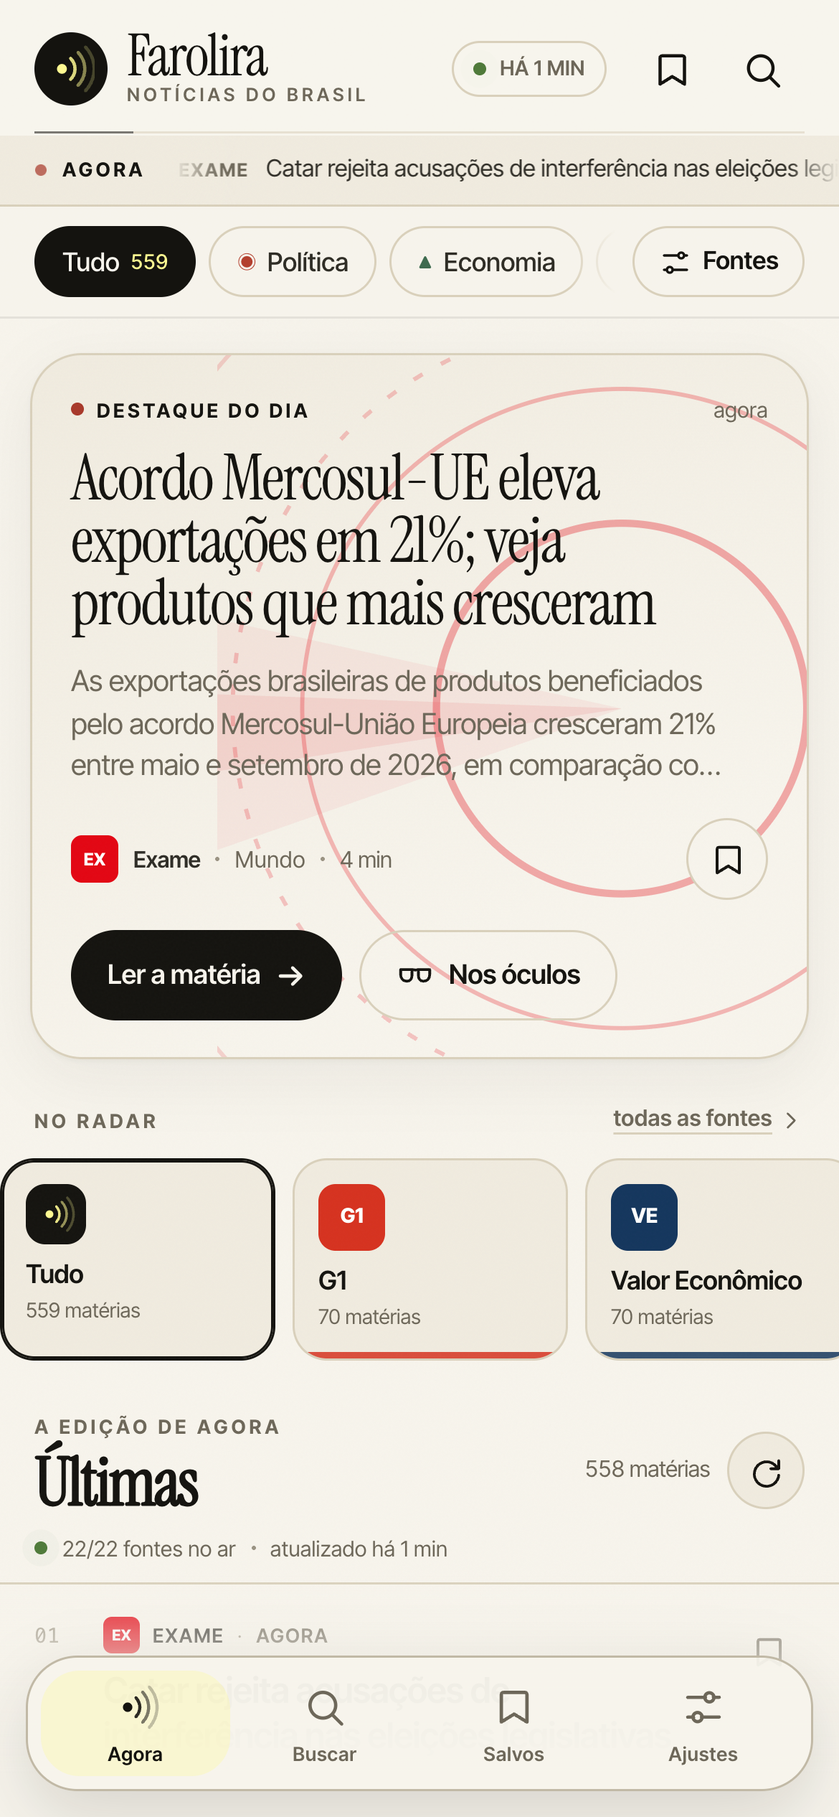
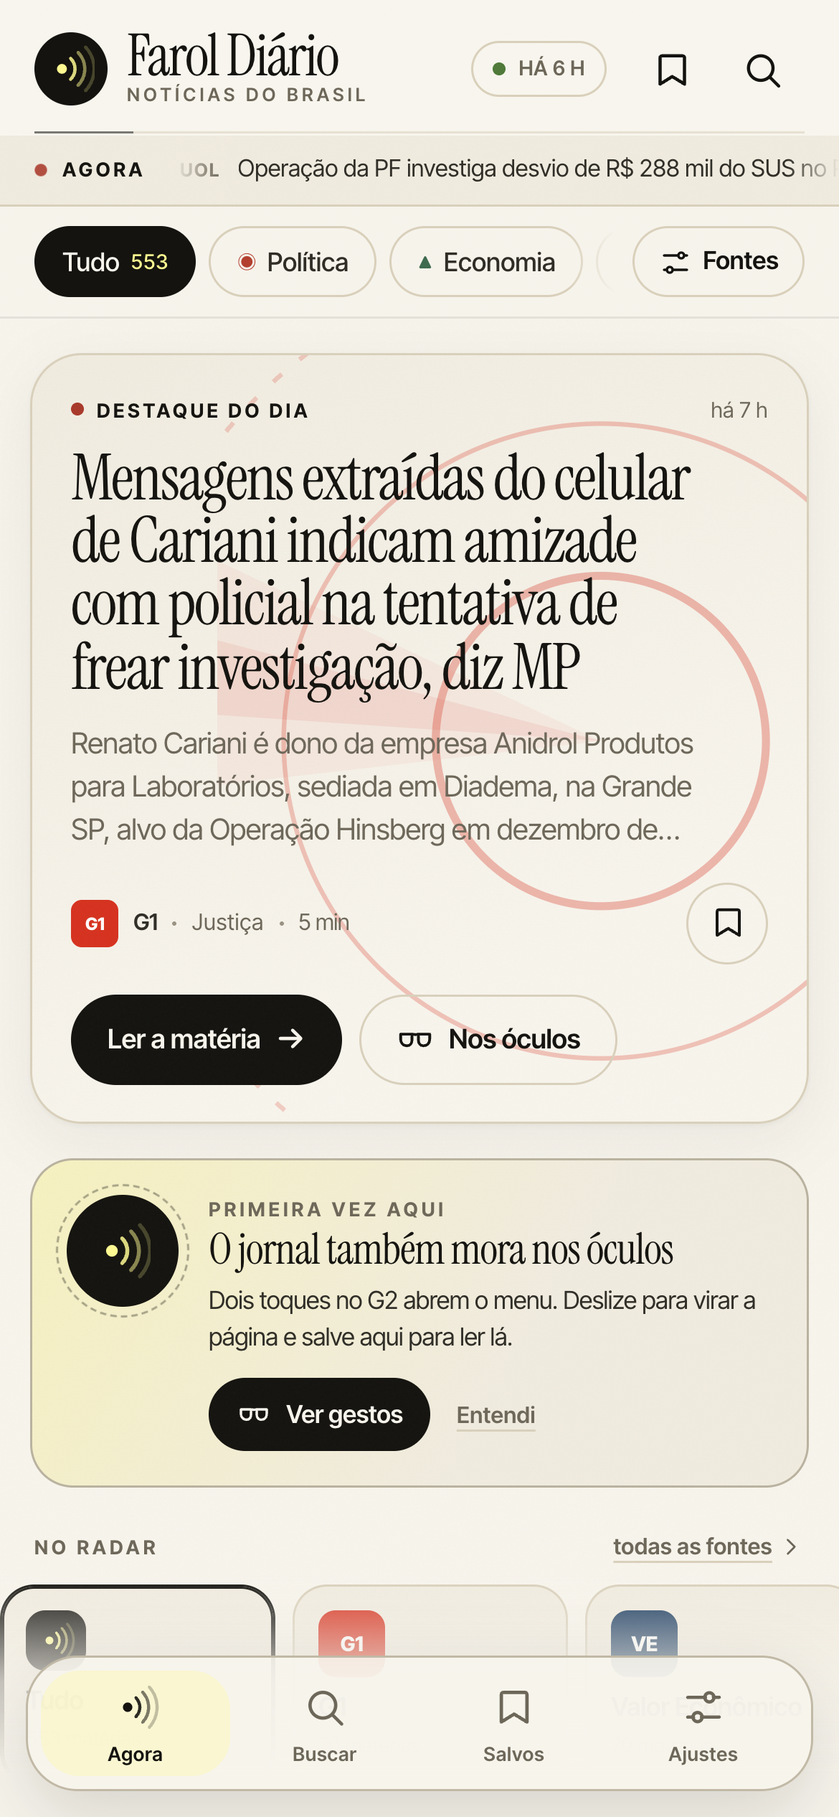
feat: Farol Diário 1.0.0 — novo nome, package id e projeto Even Hub

diff --git a/src/lib/i18n.ts b/src/lib/i18n.ts
@@ -51,7 +51,7 @@ export function t(template: string, vars?: Vars): string {
 const EN: Record<string, string> = {
   /* navegação e marca */
   'notícias do Brasil': 'Brazil news',
-  'notícias do Brasil, num olhar': 'Brazil news, at a glance',
+  'notícias do Brasil, num olhar': "Brazil's daily news, at a glance",
   'Pular para o conteúdo': 'Skip to content',
   'Agora': 'Now',
   'Buscar': 'Search',
@@ -147,10 +147,10 @@ const EN: Record<string, string> = {
   'Ainda só temos o resumo — abra no celular': 'Still only the summary — open on the phone',
   'Buscar texto completo': 'Get full text',
   'Buscando texto completo…': 'Getting full text…',
-  'Esta matéria chegou ao Farolira apenas com o resumo. Tente buscar o texto completo (versão pública ou arquivada) ou abra o original.':
-    'This story reached Farolira as a summary only. Try the full text (public or archived version) or open the original.',
-  'Esta matéria ainda não tem texto completo no Farolira. Abra a versão original no celular.':
-    'This story does not have the full text on Farolira yet. Open the original on your phone.',
+  'Esta matéria chegou ao Farol Diário apenas com o resumo. Tente buscar o texto completo (versão pública ou arquivada) ou abra o original.':
+    'This story reached Farol Diário as a summary only. Try the full text (public or archived version) or open the original.',
+  'Esta matéria ainda não tem texto completo no Farol Diário. Abra a versão original no celular.':
+    'This story does not have the full text on Farol Diário yet. Open the original on your phone.',
   'O farol ainda não acendeu': 'The beacon is not lit yet',
   'Não recebemos a edição de hoje. Verifique sua conexão e puxe a atualização — o serviço publica notícias a cada 15 minutos.':
     'We have not received today’s edition. Check your connection and pull to refresh — the service publishes news every 15 minutes.',
@@ -308,14 +308,14 @@ const EN: Record<string, string> = {
   'Abrir endpoint de dados': 'Open data endpoint',
   'Limpar cache': 'Clear cache',
   'Limpar o cache de notícias? Seus salvos continuam guardados.': 'Clear the news cache? Your saved stories are kept.',
-  'Cache limpo. O Farolira vai buscar novidades.': 'Cache cleared. Farolira will look for updates.',
+  'Cache limpo. O Farol Diário vai buscar novidades.': 'Cache cleared. Farol Diário will look for updates.',
   'Mantém os salvos no celular': 'Keeps saved stories on the phone',
   'Salvos offline': 'Saved offline',
   'no Even Hub': 'in Even Hub',
   'O app não tem login nem rastreamento. As notícias vêm de feeds públicos dos veículos; favoritos e ajustes ficam no armazenamento do seu celular via Even Hub.':
     'The app has no login and no tracking. News comes from public outlet feeds; favorites and settings stay in your phone storage via Even Hub.',
-  'versão 1.1.0 · feito para Even Realities G2': 'version 1.1.0 · made for Even Realities G2',
-  'versão 1.0.1 · feito para Even Realities G2': 'version 1.1.0 · made for Even Realities G2',
+  'versão 1.0.0 · feito para Even Realities G2': 'version 1.0.0 · made for Even Realities G2',
+  'versão 1.0.1 · feito para Even Realities G2': 'version 1.0.0 · made for Even Realities G2',
 
   /* fontes e metadados */
   'monte seu farol': 'build your beacon',
@@ -348,7 +348,7 @@ const EN: Record<string, string> = {
   '▲▼ rolar  ·  ● escolher  ·  2× lista': '▲▼ scroll  ·  ● choose  ·  2× list',
   '▲▼ rolar  ·  ● filtrar  ·  2× voltar': '▲▼ scroll  ·  ● filter  ·  2× back',
   '▲▼ rolar  ·  ● abrir  ·  2× voltar': '▲▼ scroll  ·  ● open  ·  2× back',
-  '◈  Abrindo o Farolira…': '◈  Opening Farolira…',
+  '◈  Abrindo o Farol Diário…': '◈  Opening Farol Diário…',
   '◈  Sem notícias agora — 2× para atualizar': '◈  No stories right now — 2× to refresh',
   '◈  Sem notícias agora': '◈  No stories right now',
   '◈  Últimas notícias': '◈  Latest stories',
@@ -360,7 +360,7 @@ const EN: Record<string, string> = {
   '◀  Voltar à leitura': '◀  Back to reading',
   '▶  Atualizar notícias': '▶  Refresh news',
   '▷  Filtrar por fonte': '▷  Filter by source',
-  '×  Sair do Farolira': '×  Exit Farolira',
+  '×  Sair do Farol Diário': '×  Exit Farol Diário',
   '●  Todas as fontes': '●  All sources',
   'NADA SALVO AINDA': 'NOTHING SAVED YET',
   'Abra uma matéria e toque': 'Open a story and tap',
@@ -378,9 +378,9 @@ const EN: Record<string, string> = {
   'Modo navegador — sem óculos conectados': 'Browser mode — no glasses connected',
   'falha ao iniciar': 'failed to start',
   '1/2  ● ações': '1/2  ● actions',
-  '(Resumo do Farolira. A íntegra está disponível no site da fonte.)':
-    '(Farolira summary. The full story is available on the source site.)',
-  '◈ FAROLIRA — COMO USAR': '◈ FAROLIRA — HOW TO USE',
+  '(Resumo do Farol Diário. A íntegra está disponível no site da fonte.)':
+    '(Farol Diário summary. The full story is available on the source site.)',
+  '◈ FAROL DIÁRIO — COMO USAR': '◈ FAROL DIÁRIO — HOW TO USE',
   '▲ ▼  navegar e virar página': '▲ ▼  navigate and turn page',
   '●    abrir a matéria': '●    open the story',
   '●●   2 toques: menu de ações': '●●   2 taps: actions menu',

diff --git a/src/lib/glasses.ts b/src/lib/glasses.ts
@@ -140,7 +140,7 @@ export class GlassesUI {
                 itemCount: 1,
                 itemWidth: 560,
                 isItemSelectBorderEn: 1,
-                itemName: [t('◈  Abrindo o Farolira…')],
+                itemName: [t('◈  Abrindo o Farol Diário…')],
               }),
             }),
           ],
@@ -301,11 +301,11 @@ export class GlassesUI {
     const meta = `${source?.name ?? article.sourceId} · ${relativeTime(article.publishedAt)} · ${t('{n} min de leitura', { n: article.readingMin })}`
     const body =
       (article.content || article.summary || '').trim() ||
-      t('Esta matéria ainda não tem texto completo no Farolira. Abra a versão original no celular.')
+      t('Esta matéria ainda não tem texto completo no Farol Diário. Abra a versão original no celular.')
     const note = article.full
       ? ''
-      : `\n\n${t('(Resumo do Farolira. A íntegra está disponível no site da fonte.)')}`
-    const text = `▌ ${article.title}\n\n${meta}\n\n${body}${note}\n\n— FAROLIRA`
+      : `\n\n${t('(Resumo do Farol Diário. A íntegra está disponível no site da fonte.)')}`
+    const text = `▌ ${article.title}\n\n${meta}\n\n${body}${note}\n\n— FAROL DIÁRIO`
     return paginate(text, { width: BODY_W, height: BODY_H })
   }
 
@@ -314,7 +314,7 @@ export class GlassesUI {
   }
 
   private brandLine(): string {
-    return `◈ FAROLIRA  ·  ${clock(new Date().toISOString())}`
+    return `◈ FAROL DIÁRIO  ·  ${clock(new Date().toISOString())}`
   }
 
   private topicLine(): string {
@@ -555,7 +555,7 @@ export class GlassesUI {
     this.actions.push(() => this.deps.setLanguageSetting(currentLanguage() === 'pt' ? 'en' : 'pt'))
     items.push(t('◈  Como usar'))
     this.actions.push(() => this.renderHelp())
-    items.push(t('×  Sair do Farolira'))
+    items.push(t('×  Sair do Farol Diário'))
     this.actions.push(() => this.exit())
 
     const subtitle =
@@ -772,7 +772,7 @@ export class GlassesUI {
     if (!this.ready) return
     this.mode = 'help'
     const help = [
-      t('◈ FAROLIRA — COMO USAR'),
+      t('◈ FAROL DIÁRIO — COMO USAR'),
       '',
       t('▲ ▼  navegar e virar página'),
       t('●    abrir a matéria'),

diff --git a/src/components/SettingsView.tsx b/src/components/SettingsView.tsx
@@ -307,7 +307,7 @@ export function SettingsView({
           onClick={async () => {
             if (!window.confirm(t('Limpar o cache de notícias? Seus salvos continuam guardados.'))) return
             await onClearCache()
-            onToast(t('Cache limpo. O Farolira vai buscar novidades.'))
+            onToast(t('Cache limpo. O Farol Diário vai buscar novidades.'))
           }}
         >
           <span className="setting-row__icon"><TrashIcon size={18} /></span>
@@ -332,8 +332,8 @@ export function SettingsView({
       <footer className="about">
         <span className="about__mark" aria-hidden="true">◈</span>
         <div>
-          <strong>Farolira</strong>
-          <span>{t('versão 1.1.0 · feito para Even Realities G2')}</span>
+          <strong>Farol Diário</strong>
+          <span>{t('versão 1.0.0 · feito para Even Realities G2')}</span>
           <button className="about__link" onClick={() => window.open('https://github.com/andrebadini/farol-noticias', '_blank', 'noopener')}>
             github.com/andrebadini/farol-noticias <ExternalIcon size={12} />
           </button>

diff --git a/src/App.tsx b/src/App.tsx
@@ -477,14 +477,14 @@ export default function App() {
   /* idioma -------------------------------------------------------------- */
   useEffect(() => {
     document.documentElement.lang = lang === 'pt' ? 'pt-BR' : 'en'
-    document.title = lang === 'pt' ? 'Farolira · Notícias do Brasil' : 'Farolira · Brazil news'
+    document.title = lang === 'pt' ? 'Farol Diário · Notícias do Brasil' : 'Farol Diário · Brazil news'
     const meta = document.querySelector('meta[name="description"]')
     if (meta) {
       meta.setAttribute(
         'content',
         lang === 'pt'
-          ? 'Farolira — as notícias do Brasil no celular e nos óculos Even Realities G2.'
-          : 'Farolira — Brazil’s news on your phone and Even Realities G2 glasses.',
+          ? 'Farol Diário — as notícias do Brasil no celular e nos óculos Even Realities G2.'
+          : 'Farol Diário — Brazil’s news on your phone and Even Realities G2 glasses.',
       )
     }
     void glassesRef.current?.setLanguage()

diff --git a/index.html b/index.html
@@ -5,10 +5,10 @@
     <link rel="icon" type="image/svg+xml" href="./favicon.svg" />
     <meta name="viewport" content="width=device-width, initial-scale=1, maximum-scale=1, user-scalable=no, viewport-fit=cover" />
     <meta name="theme-color" content="#f7f4ec" />
-    <meta name="description" content="Farolira — as notícias do Brasil no celular e nos óculos Even Realities G2." />
+    <meta name="description" content="Farol Diário — as notícias do Brasil no celular e nos óculos Even Realities G2." />
     <meta name="apple-mobile-web-app-capable" content="yes" />
     <meta name="apple-mobile-web-app-status-bar-style" content="default" />
-    <title>Farolira · Notícias do Brasil</title>
+    <title>Farol Diário · Notícias do Brasil</title>
   </head>
   <body>
     <div id="root"></div>

diff --git a/src/components/Reader.tsx b/src/components/Reader.tsx
@@ -153,7 +153,7 @@ export function Reader({ meta, article, source, saved, fontScale, onFontScale, o
               <div>
                 <strong>{t('Texto resumido')}</strong>
                 <p>
-                  {t('Esta matéria chegou ao Farolira apenas com o resumo. Tente buscar o texto completo (versão pública ou arquivada) ou abra o original.')}
+                  {t('Esta matéria chegou ao Farol Diário apenas com o resumo. Tente buscar o texto completo (versão pública ou arquivada) ou abra o original.')}
                 </p>
                 <div className="reader__notice-actions">
                   <button className="reader__retry" onClick={onRetryFull} disabled={retrying}>

diff --git a/src/components/MiniGlasses.tsx b/src/components/MiniGlasses.tsx
@@ -28,7 +28,7 @@ export function MiniGlasses({
     <div className="mini-glasses" role="img" aria-label={t('Prévia aproximada do que aparece nos óculos')}>
       <div className="mini-glasses__screen">
         <div className="mini-glasses__top">
-          <span>◈ FAROLIRA</span>
+          <span>◈ FAROL DIÁRIO</span>
           <span>{new Date().toLocaleTimeString(currentLanguage() === 'pt' ? 'pt-BR' : 'en-US', { hour: '2-digit', minute: '2-digit' })}</span>
         </div>
         <div className="mini-glasses__topic">

diff --git a/src/components/Boot.tsx b/src/components/Boot.tsx
@@ -9,7 +9,7 @@ export function BootSplash({ leaving }: { leaving: boolean }) {
         <span className="splash__beam splash__beam--2" />
         <span className="splash__dot"><BeaconMark size={38} /></span>
       </div>
-      <div className="splash__word">Farolira</div>
+      <div className="splash__word">Farol Diário</div>
       <p className="splash__tag">{t('notícias do Brasil, num olhar')}</p>
       <div className="splash__bar"><span /></div>
     </div>

diff --git a/src/components/Header.tsx b/src/components/Header.tsx
@@ -29,7 +29,7 @@ export function Header({ updatedAt, online, totalSources, savedCount, onSaved, o
           <BeaconMark size={22} />
         </span>
         <div className="topbar__word">
-          <span className="wordmark">Farolira</span>
+          <span className="wordmark">Farol Diário</span>
           <span className="topbar__sub">{t('notícias do Brasil')}</span>
         </div>
       </div>

diff --git a/src/index.css b/src/index.css
@@ -1,5 +1,5 @@
 /* ==========================================================================
-   Farolira — sistema visual
+   Farol Diário — sistema visual
    Papel jornal + tinta + amarelo Even. Tipografia editorial (Instrument
    Serif) para manchetes, Inter Tight para a interface.
    ========================================================================== */

diff --git a/STORE.md b/STORE.md
@@ -1,4 +1,4 @@
-# Publicação no Even Hub — Farolira 1.1.0
+# Publicação no Even Hub — Farol Diário 1.0.0
 
 Tudo o que você precisa colar no portal do Even Hub (ou passar para o CLI), com os textos prontos e os limites de cada campo.
 
@@ -6,31 +6,31 @@ Tudo o que você precisa colar no portal do Even Hub (ou passar para o CLI), com
 
 | Campo | Valor | Limite |
 |---|---|---|
-| **Nome** | `Farolira` | 1–20 caracteres |
-| **Tagline / descrição curta** | `As notícias do Brasil, num olhar.` | 1–50 caracteres |
-| **Descrição da loja** | use [store/description-pt.txt](description-pt.txt) (ou [store/description-en.txt](description-en.txt)) | 1–2000 caracteres |
-| **Categoria** | Notícias / News & Magazines | — |
+| **Nome** | `Farol Diário` | 1–20 caracteres |
+| **Tagline / descrição curta** | `Brazil's daily news, at a glance.` | 1–50 caracteres |
+| **Descrição da loja** | [store/description-en.txt](description-en.txt) (inglês; a versão PT é [store/description-pt.txt](description-pt.txt)) | 1–2000 caracteres |
+| **Categoria** | Entertainment (o Even Hub não tem “News”) | — |
 | **Ícone (CLI / portal 24×24)** | [store/icon-24.png](icon-24.png) | PNG 24×24, pixels visíveis #F4F4F4 em blocos 2×2 |
 | **Ícone grande (se o portal pedir)** | [store/icon-1024.png](icon-1024.png) | PNG quadrado |
 | **Idioma da interface** | Português (Brasil) e English; automático pelo idioma do celular ou escolha manual | — |
 | **País / região** | Brasil | — |
-| **Versão** | `1.1.0` | semver |
+| **Versão** | `1.0.0` | semver |
 | **min_app_version** | `2.2.10` | exigido pelo SDK 0.0.16 |
 | **min_sdk_version** | `0.0.16` | SDK usado no build |
 | **Política de privacidade** | https://andrebadini.github.io/farol-noticias/privacy.html | URL pública |
 | **Site / suporte** | https://github.com/andrebadini/farol-noticias | URL pública |
 | **Pacote** | `farol-noticias.ehpk` | gerado por `npm run pack` |
-| **Package ID** | `com.andrebadini.farolira` | reverse domain, minúsculo |
+| **Package ID** | `com.andrebadini.faroldiario` | reverse domain, minúsculo |
 
-> **Nome verificado (28/10/2026):** `Farolira` — sem site, app, pacote npm ou repositório equivalente; `farolira.com`, `.com.br`, `.app` e `.io` estavam sem site ativo. Registre o domínio antes do lançamento, se quiser garantir a marca.
+> **Nome escolhido em 30/10/2026:** `Farol Diário`, por decisão do produto. Existe um veículo homônimo, **O Farol Diário** (`ofaroldiario.com.br`); o nome foi mantido mesmo assim. Não reivindicar exclusividade; vale validar marca/domínio antes de investir em SEO.
 
-## 2. Descrição da loja (PT-BR)
+## 2. Descrição da loja — alternativa em português
 
-Copie de `store/description-pt.txt`. O texto tem 1.124 caracteres, dentro do limite de 2.000.
+Copie de `store/description-pt.txt`. O texto tem 1.271 caracteres, dentro do limite de 2.000.
 
-## 3. Descrição da loja (EN)
+## 3. Descrição da loja — inglês (card atual)
 
-Copie de `store/description-en.txt` se o portal estiver em inglês. O texto tem 1.173 caracteres.
+Copie de `store/description-en.txt` se o portal estiver em inglês. O texto tem 1.321 caracteres.
 
 ## 4. Permissões
 
@@ -86,8 +86,8 @@ npx evenhub login
 # 2. crie o app e o build Draft (só na primeira vez)
 npx evenhub create farol-noticias.ehpk \
   --package-id com.andrebadini.farolnoticias \
-  --name "Farolira" \
-  --tagline "As notícias do Brasil, num olhar." \
+  --name "Farol Diário" \
+  --tagline "Brazil's daily news, at a glance." \
   --description-file store/description-pt.txt \
   --icon store/icon-24.png
 
@@ -101,8 +101,8 @@ npx evenhub upload farol-noticias.ehpk
 # 5. ajuste textos/ícone de um app ainda em Draft
 npx evenhub update \
   --package-id com.andrebadini.farolnoticias \
-  --name "Farolira" \
-  --tagline "As notícias do Brasil, num olhar." \
+  --name "Farol Diário" \
+  --tagline "Brazil's daily news, at a glance." \
   --description-file store/description-pt.txt \
   --icon store/icon-24.png
 ```
@@ -111,7 +111,7 @@ O `create` deixa o app em **Draft**; a publicação pública é feita no portal 
 
 ## 8. Publicando pelo portal (interface web)
 
-1. Acesse o portal de desenvolvedor do Even Hub e crie um app com o `package_id` `com.andrebadini.farolira`.
+1. Acesse o portal de desenvolvedor do Even Hub e crie um app com o `package_id` `com.andrebadini.faroldiario`.
 2. Cole os campos da seção 1; use os textos de `store/description-pt.txt` e `store/description-en.txt`.
 3. Envie o ícone `store/icon-24.png` (o portal pode pedir também o `icon-1024.png`).
 4. Envie `farol-noticias.ehpk` como build.
@@ -135,8 +135,8 @@ O `create` deixa o app em **Draft**; a publicação pública é feita no portal 
 ## 10. Observações para o revisor
 
 - A interface é **português + English**. O modo `Automático` usa `navigator.language`/`languages` do WebView (o SDK do Even Hub não expõe idioma do sistema; `UserInfo` só tem `country`). Há seleção manual nos Ajustes e um atalho no menu dos óculos.
-- As **notícias continuam em português** (idioma dos veículos); a interface, menus, filtros, dicas e avisos são traduzidos. Alguns veículos podem ter edições em inglês, mas o Farolira não as agrega nesta versão.
+- As **notícias continuam em português** (idioma dos veículos); a interface, menus, filtros, dicas e avisos são traduzidos. Alguns veículos podem ter edições em inglês, mas o Farol Diário não as agrega nesta versão.
 - `app.json` mantém `supported_languages: ["en"]` porque o schema da plataforma aceita apenas `en, de, fr, es, it, zh, ja, ko`; o idioma de runtime da interface é independente desse metadado da loja.
 - O app não tem conta. O conteúdo é obtido de feeds RSS públicos e o snapshot é publicado por um workflow de 15 minutos no GitHub Actions.
-- O texto completo é exibido quando o veículo o publica no feed ou permite extração pública; caso contrário, o app mostra o resumo, identifica isso como **"Resumo do Farolira"** e oferece o link original. Nunca contorna paywall.
+- O texto completo é exibido quando o veículo o publica no feed ou permite extração pública; caso contrário, o app mostra o resumo, identifica isso como **"Resumo do Farol Diário"** e oferece o link original. Nunca contorna paywall.
 - As notícias pertencem aos veículos; o app sempre exibe a fonte e o link. A política de privacidade e o README detalham o pipeline.

diff --git a/README.md b/README.md
@@ -1,11 +1,11 @@
-# Farolira
+# Farol Diário
 
 > **As notícias do Brasil, num olhar.**
 >
-> **Nome na loja e marca:** Farolira · **repositório e dados:** `farol-noticias`.
+> **Nome na loja e marca:** Farol Diário · **repositório e dados:** `farol-noticias`.
 > Um leitor editorial para os óculos **Even Realities G2** e para o celular, com 23 veículos brasileiros, busca por voz, favoritos offline e atualização a cada 15 minutos.
 
-![Farolira no celular](store/screenshots/home-light.png)
+![Farol Diário no celular](store/screenshots/home-light.png)
 
 <p align="center">
   <img src="store/screenshots/glasses-home.png" width="576" alt="Lista de notícias no visor do G2" />
@@ -14,7 +14,7 @@
 
 ## O que é
 
-Farolira organiza os feeds RSS públicos de **G1, Folha, Valor, InfoMoney, UOL, Crusoé, O Antagonista, Intercept Brasil, Poder360, Metrópoles, Agência Brasil, Brasil de Fato, Veja, Exame, CNN Brasil, Jovem Pan, Nexo, Aos Fatos, Ponte, Alma Preta, Brasil 247, Fórum e DCM** em uma edição única, curada por um robô a cada 15 minutos.
+Farol Diário organiza os feeds RSS públicos de **G1, Folha, Valor, InfoMoney, UOL, Crusoé, O Antagonista, Intercept Brasil, Poder360, Metrópoles, Agência Brasil, Brasil de Fato, Veja, Exame, CNN Brasil, Jovem Pan, Nexo, Aos Fatos, Ponte, Alma Preta, Brasil 247, Fórum e DCM** em uma edição única, curada por um robô a cada 15 minutos.
 
 No celular, o app tem uma interface editorial própria (papel, tinta e o amarelo Even) para navegar, filtrar por categoria e fonte, buscar por voz ou teclado, ler a matéria inteira e guardar o que importa. Nos óculos, uma interface em texto de alto contraste, pensada para 576 × 288, com quatro manchetes por tela, paginação por linha e menu de ações por gesto.
 
@@ -38,7 +38,7 @@ O plugin é um app web (Vite + React + TypeScript) que roda no WebView do Even H
 
 ## Idiomas
 
-A interface do Farolira existe em **português** e **inglês**. O padrão é `Automático`: o app usa `navigator.language`/`navigator.languages` do WebView (o SDK do Even Hub não tem API de idioma do sistema; `UserInfo` só expõe `country`). Se o idioma detectado não for português nem inglês, o app cai em português, o idioma das notícias.
+A interface do Farol Diário existe em **português** e **inglês**. O padrão é `Automático`: o app usa `navigator.language`/`navigator.languages` do WebView (o SDK do Even Hub não tem API de idioma do sistema; `UserInfo` só expõe `country`). Se o idioma detectado não for português nem inglês, o app cai em português, o idioma das notícias.
 
 A escolha manual fica em **Ajustes → Idioma** (Automático, Português, English) e também há um atalho **◈ English/Português** no menu dos óculos. A preferência é persistida no armazenamento do Even Hub. As notícias, títulos, resumos e nomes dos veículos permanecem no idioma original — português —; apenas a interface é traduzida.
 
@@ -92,7 +92,7 @@ O robô guarda um arquivo de matérias em cache (GitHub Actions cache) para não
 | Revista Fórum | Revista | `revistaforum.com.br/feed/` |
 | Diário do Centro do Mundo | Portal | `diariodocentrodomundo.com.br/feed/` |
 
-> As notícias pertencem aos veículos que as publicam. Farolira apenas organiza os feeds públicos, indica a fonte e leva ao original. Para pedir a remoção de um conteúdo, abra uma issue.
+> As notícias pertencem aos veículos que as publicam. Farol Diário apenas organiza os feeds públicos, indica a fonte e leva ao original. Para pedir a remoção de um conteúdo, abra uma issue.
 
 ## Gestos nos óculos
 
@@ -102,7 +102,7 @@ O robô guarda um arquivo de matérias em cache (GitHub Actions cache) para não
 | 1 toque | abrir a matéria | abrir ações | escolher a ação |
 | 2 toques | abrir o menu | abrir ações | voltar |
 
-No menu: **▶ Atualizar notícias**, **▷ Filtrar por fonte**, **★ Matérias salvas**, **◈ Como usar** e **× Sair do Farolira**. O rodapé mostra a página atual, uma barra de progresso e a dica de gesto.
+No menu: **▶ Atualizar notícias**, **▷ Filtrar por fonte**, **★ Matérias salvas**, **◈ Como usar** e **× Sair do Farol Diário**. O rodapé mostra a página atual, uma barra de progresso e a dica de gesto.
 
 ## Rodando localmente
 
